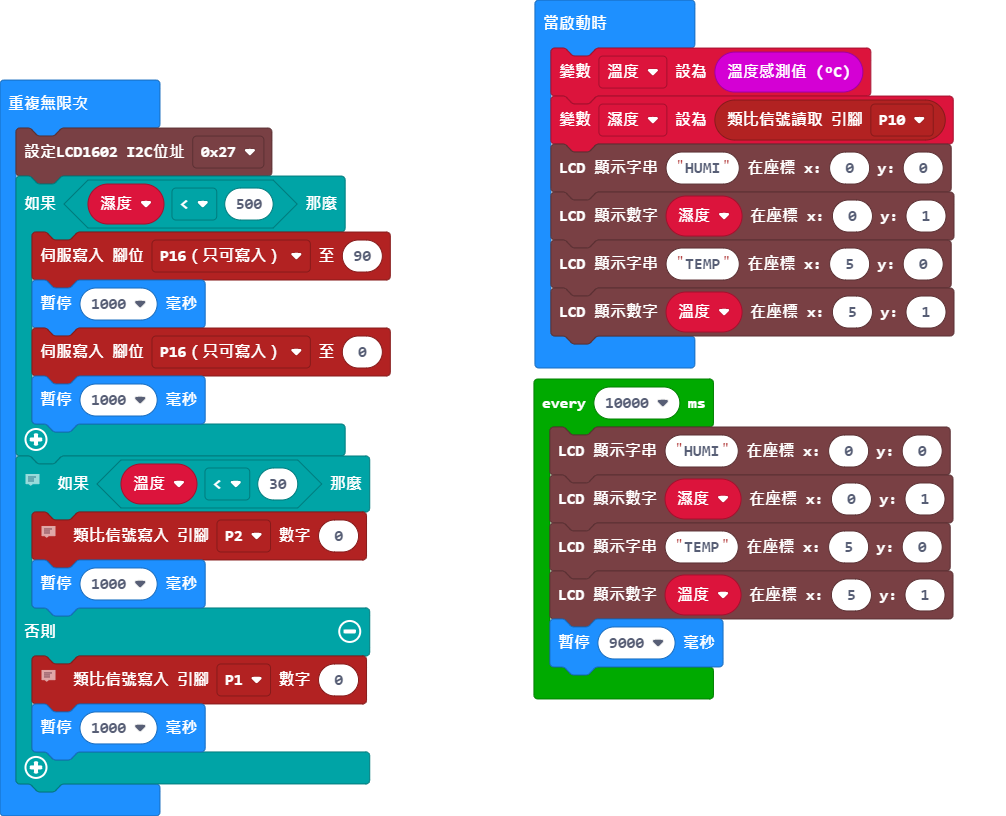
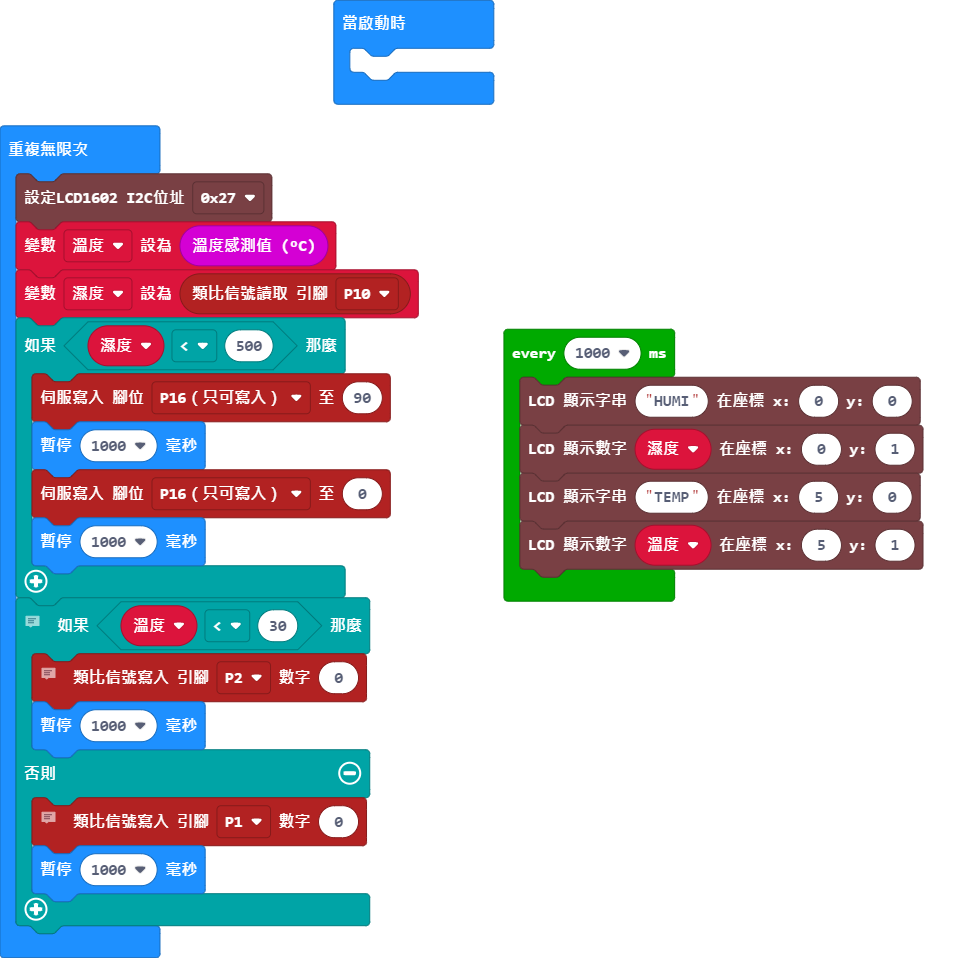
更新 main.blocks, main.ts

diff --git a/main.ts b/main.ts
@@ -1,20 +1,17 @@
-let 溫度 = input.temperature()
-let 濕度 = pins.analogReadPin(AnalogPin.P10)
-lcd1602.putString("HUMI", 0, 0)
-lcd1602.putNumber(濕度, 0, 1)
-lcd1602.putString("TEMP", 5, 0)
-lcd1602.putNumber(溫度, 5, 1)
-loops.everyInterval(10000, function () {
+let 濕度 = 0
+let 溫度 = 0
+loops.everyInterval(1000, function () {
     lcd1602.putString("HUMI", 0, 0)
     lcd1602.putNumber(濕度, 0, 1)
     lcd1602.putString("TEMP", 5, 0)
     lcd1602.putNumber(溫度, 5, 1)
-    basic.pause(9000)
 })
 basic.forever(function () {
     lcd1602.setAddress(
     lcd1602.I2C_ADDR.addr1
     )
+    溫度 = input.temperature()
+    濕度 = pins.analogReadPin(AnalogPin.P10)
     if (濕度 < 500) {
         pins.servoWritePin(AnalogPin.P16, 90)
         basic.pause(1000)
